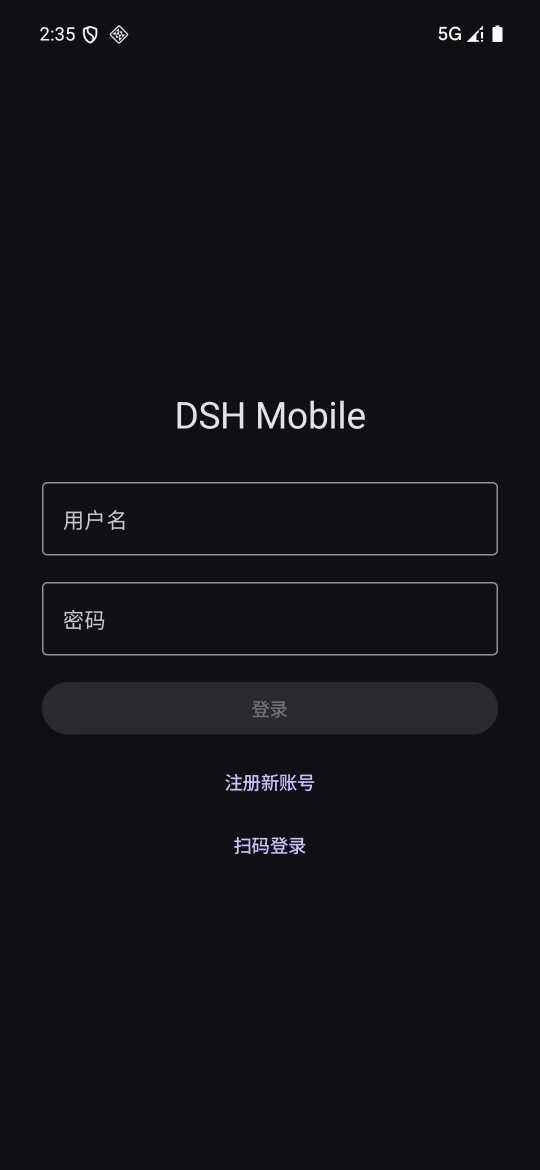
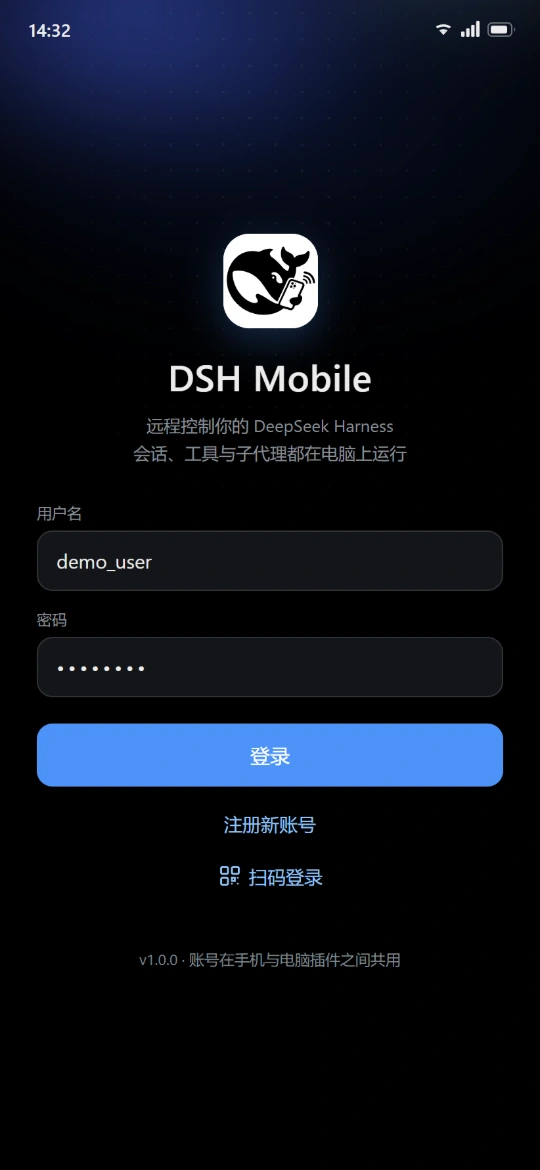
landing: 换 1.0.0 三屏截图 + 版本兜底值改 1.0.0（页面运行时仍以 latest.json 为准）

diff --git a/landing/index.html b/landing/index.html
@@ -362,8 +362,8 @@
           <div class="qr-pane">
             <div class="qr-box" id="qrHeroBox"><div id="qrHero"></div></div>
             <div class="qr-meta">
-              <b>DSH Mobile <span data-ver>v0.2.21</span></b>
-              扫码打开本页下载区，点「下载 APK」即可<br />Android 8.0+ · <span data-size>约 13 MB</span><br /><a href="#download" style="color:var(--blue-2)">或直接跳到下载区 →</a>
+              <b>DSH Mobile <span data-ver>v1.0.0</span></b>
+              扫码打开本页下载区，点「下载 APK」即可<br />Android 8.0+ · <span data-size>约 17 MB</span><br /><a href="#download" style="color:var(--blue-2)">或直接跳到下载区 →</a>
             </div>
           </div>
           <a class="btn btn-blue btn-lg mob-only" id="dlBtnHero" style="margin-top:16px">下载 APK</a>
@@ -387,11 +387,11 @@
           <div class="linkbox" id="linkBox"></div>
         </div>
         <div>
-          <h3 style="font-size:20px;font-weight:500">DSH Mobile <span data-ver>v0.2.21</span></h3>
+          <h3 style="font-size:20px;font-weight:500">DSH Mobile <span data-ver>v1.0.0</span></h3>
           <ul class="dl-list">
-            <li><b>版本：</b><span data-ver>v0.2.21</span>（最新）</li>
-            <li><b>包体：</b><span data-size>约 13 MB</span> · Android 8.0+ · 无需 Google 服务</li>
-            <li><b>更新：</b><span data-date>2026-09-20</span></li>
+            <li><b>版本：</b><span data-ver>v1.0.0</span>（最新）</li>
+            <li><b>包体：</b><span data-size>约 17 MB</span> · Android 8.0+ · 无需 Google 服务</li>
+            <li><b>更新：</b><span data-date>2026-09-28</span></li>
           </ul>
           <a class="btn btn-blue btn-lg" id="dlBtn">
             <svg viewBox="0 0 24 24" fill="none" stroke="currentColor" stroke-width="2"><path d="M12 3v12m0 0l-4-4m4 4l4-4M4 19h16"/></svg>
@@ -591,7 +591,7 @@
 <!-- ⑩ 页脚 -->
 <footer>
   <div class="wrap">
-    <span>DSH Mobile · <span data-ver>v0.2.21</span> · 开源 MIT</span>
+    <span>DSH Mobile · <span data-ver>v1.0.0</span> · 开源 MIT</span>
     <span>服务由 <a href="https://www.deepseek-claudex.cn" target="_blank" rel="noopener" style="color:var(--muted)">deepseek-claudex.cn</a> 提供</span>
     <span>基于 DeepSeek Harness 构建 · 非官方项目</span>
   </div>
@@ -604,7 +604,7 @@
 
   /* ===== 常量 ===== */
   // 版本号：线上以 ./latest.json 为准（发布 APK 时同步更新该文件）；此处的值是离线/预览兜底。
-  var APK_VERSION = "0.2.21";
+  var APK_VERSION = "1.0.0";
   var APK_FILE = "DSH-Mobile-" + APK_VERSION + ".apk";
   var PROD_ORIGIN = "https://www.deepseek-claudex.cn";
   var NPM_CMD = "npx -y @deepseek-ai/dsh plugin --profile web add @zdx8637/dshmobile-bridge@latest";
